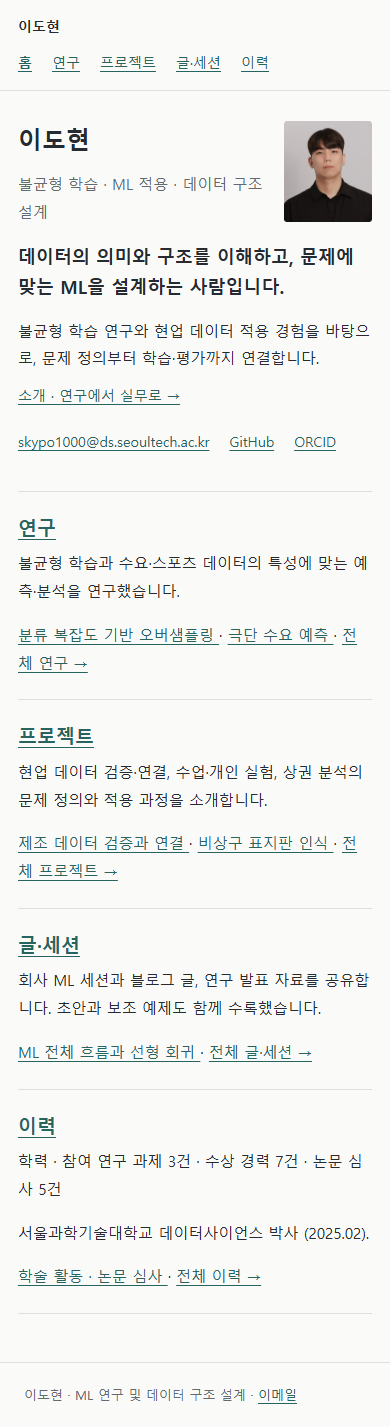
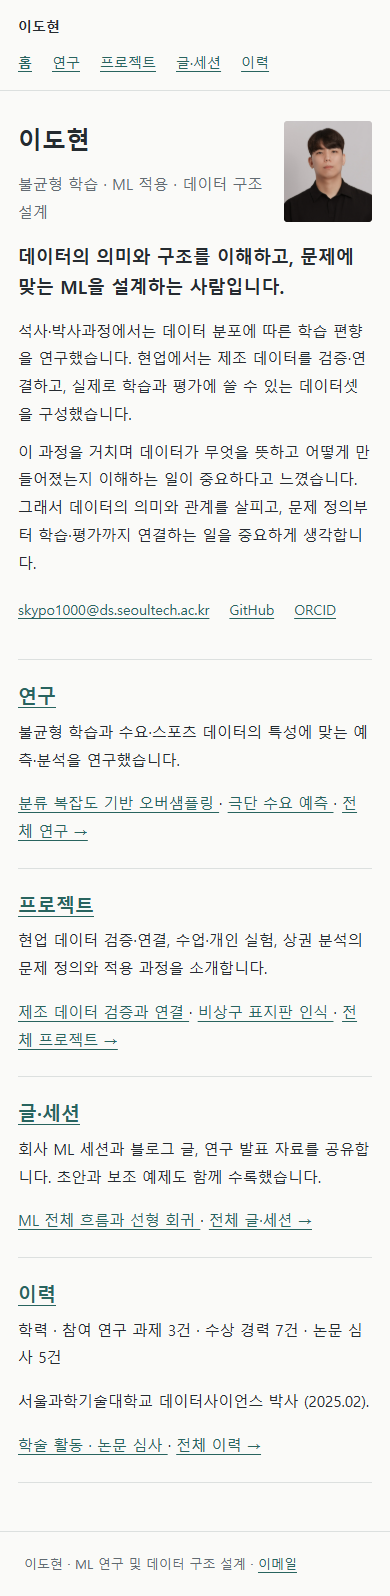
Show introduction and experience directly on home page

diff --git a/index.html b/index.html
@@ -49,12 +49,10 @@
       데이터의 의미와 구조를 이해하고, 문제에 맞는 ML을 설계하는 사람입니다.
      </p>
      <p class="profile-context">
-      불균형 학습 연구와 현업 데이터 적용 경험을 바탕으로, 문제 정의부터 학습·평가까지 연결합니다.
+      석사·박사과정에서는 데이터 분포에 따른 학습 편향을 연구했습니다. 현업에서는 제조 데이터를 검증·연결하고, 실제로 학습과 평가에 쓸 수 있는 데이터셋을 구성했습니다.
      </p>
-     <p class="profile-more">
-      <a href="about.html">
-       소개 · 연구에서 실무로 →
-      </a>
+     <p class="profile-context">
+      이 과정을 거치며 데이터가 무엇을 뜻하고 어떻게 만들어졌는지 이해하는 일이 중요하다고 느꼈습니다. 그래서 데이터의 의미와 관계를 살피고, 문제 정의부터 학습·평가까지 연결하는 일을 중요하게 생각합니다.
      </p>
      <div class="contact">
       <a href="mailto:skypo1000@ds.seoultech.ac.kr">

diff --git a/resume.html b/resume.html
@@ -47,8 +47,8 @@
      데이터사이언스 석사·박사과정에서 불균형 학습과 예측 알고리즘을 연구했고, 현업에서는 제조 데이터의 검증·연결과 학습·평가 흐름 구성에 참여했습니다. 이 경험을 바탕으로 데이터의 의미와 관계를 이해하고 문제 정의와 학습 방법을 연결하는 일을 중요하게 생각합니다.
     </p>
     <p>
-     <a href="about.html">
-      소개 · 연구에서 실무로
+     <a href="index.html#home">
+      홈 자기소개
      </a>
      ·
      <a href="resume.html#funded-projects">

diff --git a/assets/site.css b/assets/site.css
@@ -25,7 +25,6 @@ p { margin:0 0 16px; }
 .profile-photo { grid-column:2; grid-row:1; display:block; width:136px; height:auto; border-radius:3px; }
 .profile-identity { font-size:18px; font-weight:600; line-height:1.65; }
 .profile-context { font-size:15px; margin-bottom:10px; }
-.profile-more { font-size:14px; margin-bottom:16px; }
 .experience-story { margin-top:28px; border-top:1px solid var(--line); }
 .experience-story>h2 { font-size:19px; margin:22px 0 16px; }
 .story-step { display:grid; grid-template-columns:190px minmax(0,1fr); gap:24px; margin:0 0 20px; }

diff --git a/about.html b/about.html
@@ -3,6 +3,8 @@
  <head>
   <meta charset="utf-8"/>
   <meta content="width=device-width, initial-scale=1" name="viewport"/>
+  <meta http-equiv="refresh" content="0; url=index.html#home"/>
+  <link rel="canonical" href="index.html"/>
   <title>
    소개 | 이도현
   </title>

diff --git a/docs/review/REVIEW.md b/docs/review/REVIEW.md
@@ -6,9 +6,7 @@ main 병합과 실제 사이트 배포는 수행하지 않습니다.
 
 ## 변경 내용
 
-- 홈 첫 화면에 ‘데이터의 의미와 구조를 이해하고, 문제에 맞는 ML을 설계하는 사람입니다’를 배치했습니다. 긴 경험 설명은 [about.html](../../about.html)로 옮겨 그대로 보존하고 홈과 이력에서 연결했습니다. 홈의 목록 소개는 한 문단으로 줄였습니다. 1440·390·320px에서 첫 화면의 소개 문장, 소개→논문/이력→홈 이동, 이미지와 가로 넘침·JavaScript 오류를 확인했습니다. [검증 결과](introduction-browser-results.json).
-
-- 홈에 ‘학위과정의 학습 편향 연구 → 현업의 데이터 검증·학습 자료 구성 → 데이터 자체를 이해하는 일’의 흐름을 추가했습니다. 연구·프로젝트·이력의 소개도 같은 관점으로 맞췄습니다. 각 단계는 기존 논문·현업 상세·상권 분석·평가 글로 연결합니다. 관심의 변화는 사용자가 설명한 경험을 바탕으로 작성했으며, 현업 시기·회사명·운영 배포나 성능 개선을 추가하지 않았습니다. 1440·390·320px 홈을 재확인하고 사진 비율, 가로 넘침, 기존 분류와 호환 주소 이동 검증을 통과했습니다.
+- 자기소개를 홈 상단에서 바로 읽도록 배치했습니다. ‘데이터의 의미와 구조를 이해하고, 문제에 맞는 ML을 설계하는 사람입니다’ 다음에 학위과정의 학습 편향 연구, 현업 데이터 검증·학습 자료 구성, 데이터 이해로 이어진 관점을 두 문단으로 설명합니다. 별도 소개 링크는 제거했습니다. 연구·프로젝트의 구체적인 방법과 결과는 아래 목록의 상세 링크로 연결합니다. 이력의 소개 링크와 기존 about.html 주소도 홈 자기소개로 이동하며 이전 소개 본문은 호환 페이지에 보존했습니다. 사용자가 설명한 관심의 변화를 반영하되 현업 시기·회사명·운영 배포나 성능 개선은 추가하지 않았습니다. 1440·390·320px에서 소개 문장, 홈→논문/프로젝트 이동, 이력→홈 복귀, 기존 소개 주소 이동, 사진과 가로 넘침·JavaScript 오류를 확인했습니다. [검증 결과](introduction-browser-results.json).
 
 - 오버샘플링 연구의 기여 설명을 데이터셋 특성에 맞는 증강 규모와 더 적은 생성량·성능 유지 또는 개선으로 수정했습니다. 계산식은 접근 방법에만 남기고 목록·미리보기·상단 요약·기여 문단을 맞췄습니다. 원문 수치와 조건별 성능 차이는 유지합니다.
 
@@ -89,7 +87,7 @@ main 병합과 실제 사이트 배포는 수행하지 않습니다.
 | 세션 기능 자료 대조 | 기존 JavaScript와 SVG 보존 |
 | 이력·발표 대조 | 학력 3 / 연구 과제 3 / 수상 7 / 연구 발표 8 누락 없음 |
 | 외부 링크 대조 | 기존 28개 중 27개 유지, 현업 링크 1개 검토 보류 |
-| Chrome 화면 검사 | 기존 38개 페이지 × 3 크기, 총 114개. 최신 홈·소개 2개 × 3 크기 추가 확인 |
+| Chrome 화면 검사 | 기존 38개 페이지 × 3 크기, 총 114개. 최신 홈·기존 소개 주소 이동 × 3 크기 추가 확인 |
 | 반응형 | 페이지 가로 넘침 없음, 넓은 표는 표 영역에서 스크롤 |
 | 동작 | 메뉴, 연구 상세, 프로젝트 9건의 상세·목차·목록 복귀, 기존 홈 섹션 이동, 펼쳐보기·키보드 조작 확인 |
 | 브라우저 오류 | 최종 검사에서 JavaScript 오류 없음; 기존 Chart.js CDN 정상 로드 |

diff --git a/README.md b/README.md
@@ -4,8 +4,8 @@
 
 | 경로 | 내용 |
 | --- | --- |
-| `index.html` | 짧은 자기소개, 연락처, 주요 목록 요약 |
-| `about.html` | 학위과정·현업 경험과 데이터 이해로 이어지는 상세 소개 |
+| `index.html` | 정체성과 연구·현업 경험을 소개하는 자기소개, 연락처, 주요 목록 요약 |
+| `about.html` | 기존 소개 주소를 홈 자기소개로 연결 (이전 본문 보존) |
 | `research.html`, `research/` | 주제별 연구 목록과 상세 8건 |
 | `projects.html`, `projects/` | 현업·수업/개인·공모전/지역 분석 등 프로젝트 9건, 기존 연구 주소 연결 2건 |
 | `writing.html` | 블로그, 회사 ML 세션, 연구 발표 목록 |
